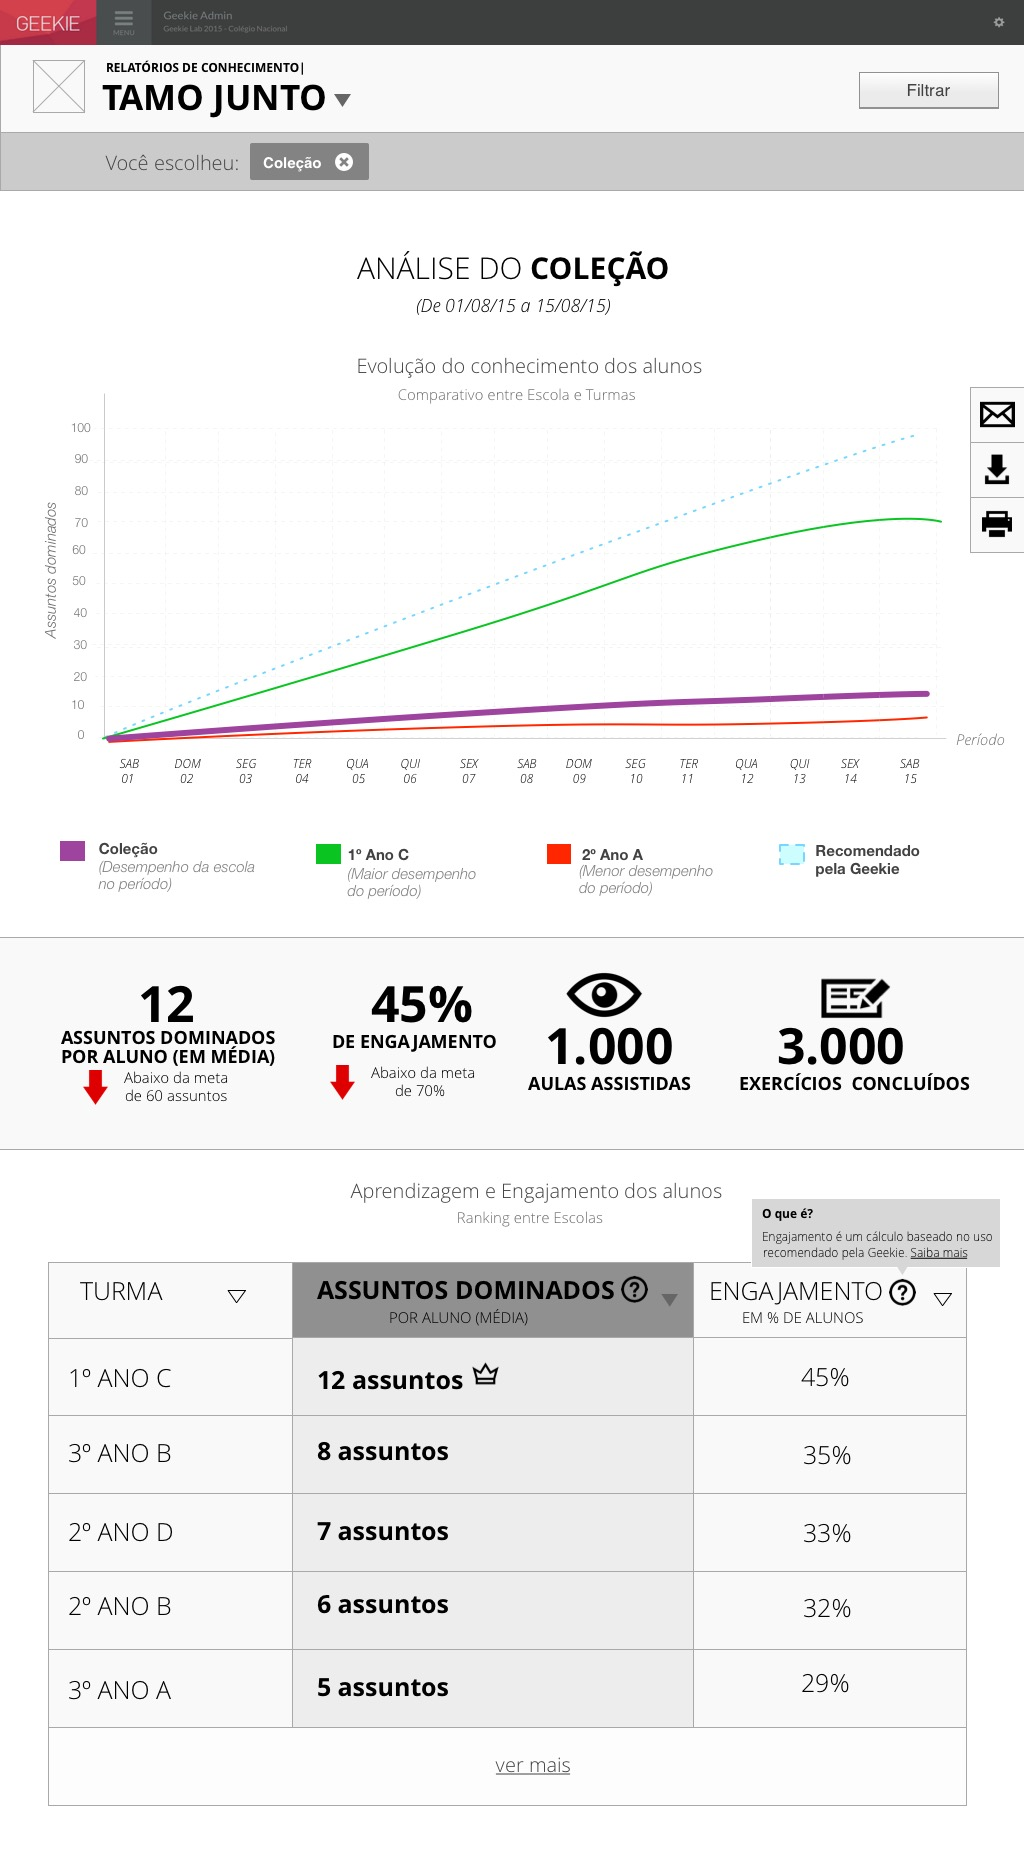
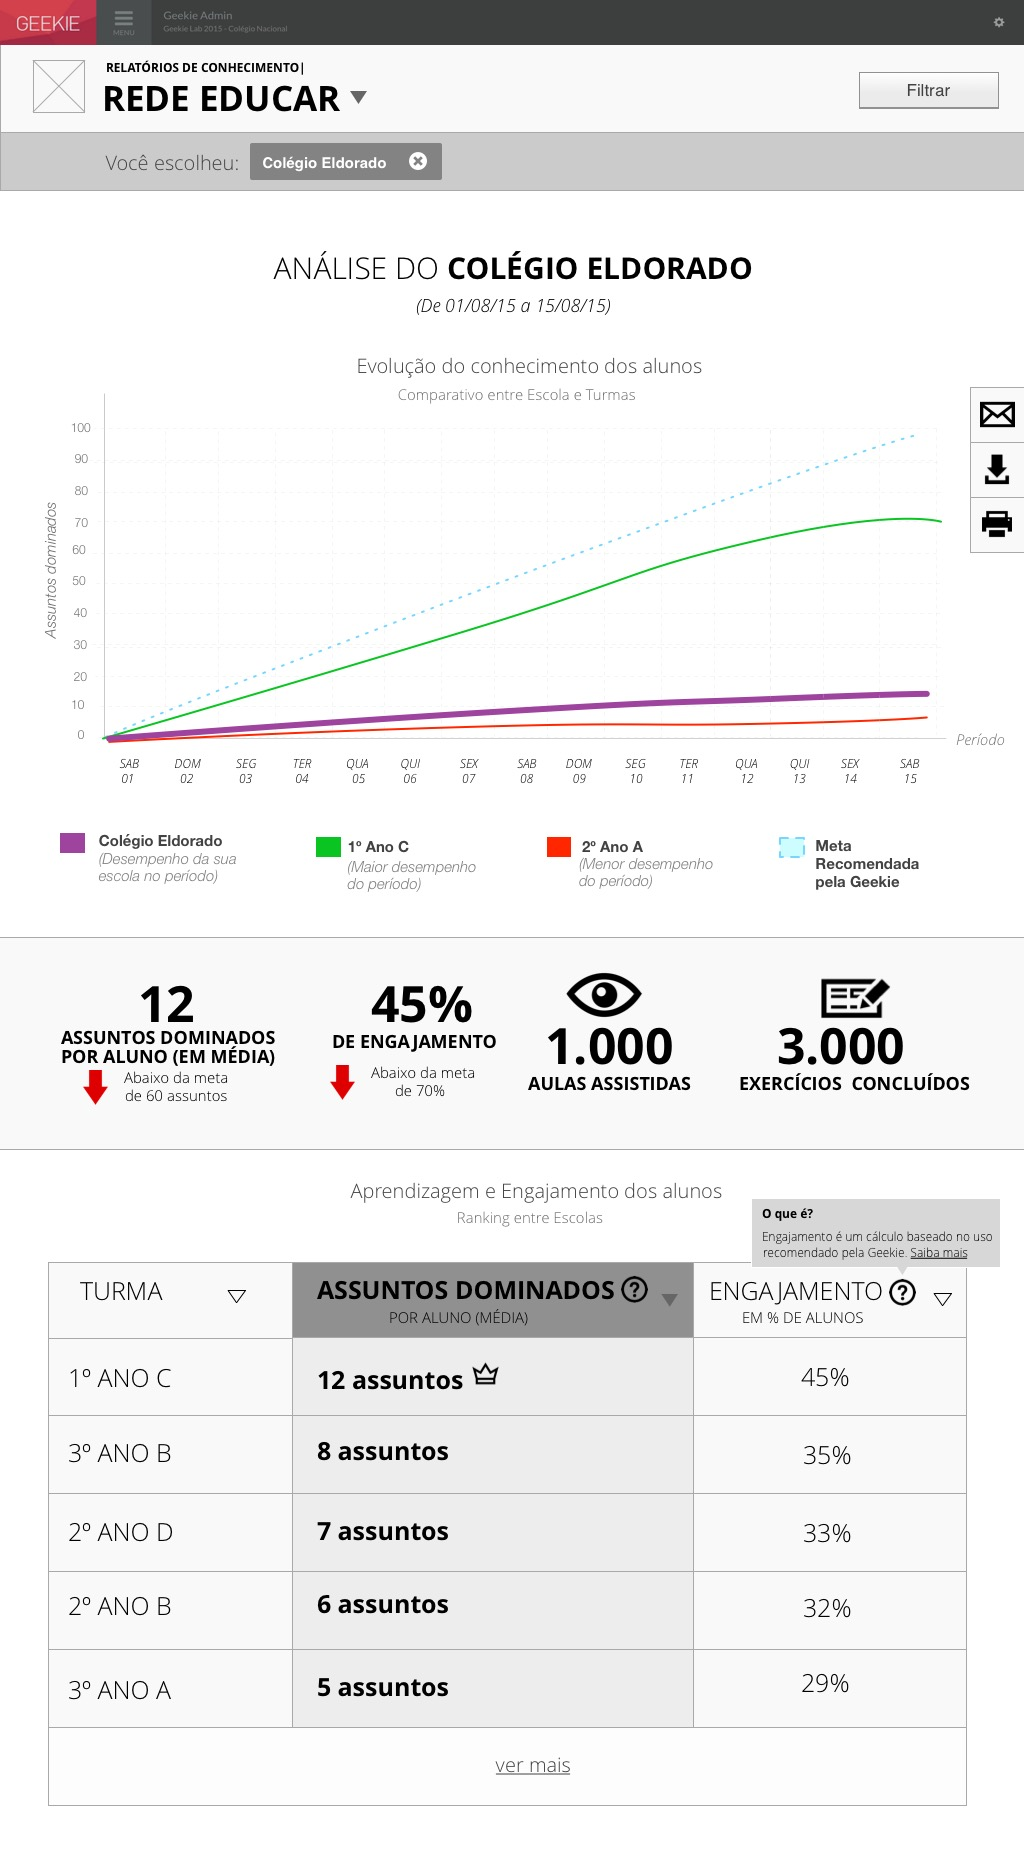
ajustes apos conversa com Valeria

diff --git a/rede/arquivos/Dashboard Rede.html b/rede/arquivos/Dashboard Rede.html
@@ -1,11 +1,13 @@
 <map name="GraffleExport">
+	<area shape=poly coords="366,91,358,104,350,91,366,91" href="Dashboard%20Rede.html">
+	<area shape=rect coords="102,73,478,122" href="Dropdown%20Rede.html">
+	<area shape=rect coords="57,1370,306,1401" href="Dashboard%20Rede%20Filtrado.html">
 	<area shape=rect coords="758,1171,974,1198" href="Dashboard%20lightbox.html">
 	<area shape=rect coords="267,1677,800,1715" href="Dashboard%20Rede%20Ver%20Mais.html">
 	<area shape=rect coords="48,1659,966,1737" href="Dashboard%20Rede%20Ver%20Mais.html">
 	<area shape=poly coords="951,1225,942,1238,934,1225,951,1225" href="Dashboard%20ordena%C3%A7%C3%A3o.html">
 	<area shape=rect coords="889,1211,916,1238" href="Dashboard%20Rede.html">
 	<area shape=rect coords="633,1194,966,1269" href="Dashboard%20ordena%C3%A7%C3%A3o.html">
-	<area shape=poly coords="350,92,342,104,334,92,350,92" href="Dropdown%20Rede.html">
 	<area shape=rect coords="0,0,1024,45" href="Dashboard%20Rede.html">
 	<area shape=rect coords="850,73,989,108" href="Dashboard%20Rede%20Filtros.html">
 </map>

diff --git a/rede/arquivos/Dashboard lightbox.html b/rede/arquivos/Dashboard lightbox.html
@@ -1,7 +1,7 @@
 <map name="GraffleExport">
 	<area shape=poly coords="924,189,949,163,975,189,949,215,924,189" href="Dashboard%20Rede.html">
-	<area shape=rect coords="0,0,1025,1800" href="Email%20Rede.html">
-	<area shape=poly coords="350,92,342,104,334,92,350,92" href="Dropdown%20Rede.html">
+	<area shape=rect coords="0,0,1025,1922" href="Email%20Rede.html">
+	<area shape=poly coords="366,91,358,104,350,91,366,91" href="Dashboard%20Rede.html">
 	<area shape=rect coords="0,0,1024,45" href="Dashboard%20Rede.html">
 </map>
 <img border=0 src="Dashboard%20lightbox.jpg" usemap="#GraffleExport">

diff --git a/rede/arquivos/Dashboard ordenação.html b/rede/arquivos/Dashboard ordenação.html
@@ -1,7 +1,7 @@
 <map name="GraffleExport">
+	<area shape=poly coords="367,92,359,105,351,92,367,92" href="Dashboard%20Rede.html">
 	<area shape=poly coords="658,1238,667,1225,675,1238,658,1238" href="Dashboard%20Rede.html">
 	<area shape=rect coords="292,1194,692,1269" href="Dashboard%20Rede.html">
-	<area shape=poly coords="350,92,342,104,334,92,350,92" href="Dropdown%20Rede.html">
 	<area shape=rect coords="0,0,1024,45" href="Dashboard%20Rede.html">
 </map>
 <img border=0 src="Dashboard%20ordena%C3%A7%C3%A3o.jpg" usemap="#GraffleExport">

diff --git a/rede/arquivos/Dropdown Rede.html b/rede/arquivos/Dropdown Rede.html
@@ -1,6 +1,7 @@
 <map name="GraffleExport">
 	<area shape=rect coords="633,1194,966,1269" href="Dashboard%20ordena%C3%A7%C3%A3o.html">
 	<area shape=rect coords="0,0,1024,45" href="Dashboard%20Rede.html">
-	<area shape=poly coords="334,108,342,95,350,108,334,108" href="Dashboard%20Rede.html">
+	<area shape=rect coords="80,198,329,252" href="Dashboard%20Rede%20Filtrado.html">
+	<area shape=poly coords="350,104,358,91,366,104,350,104" href="Dashboard%20Rede.html">
 </map>
 <img border=0 src="Dropdown%20Rede.jpg" usemap="#GraffleExport">

diff --git a/rede/arquivos/Dashboard Rede Ver Mais.html b/rede/arquivos/Dashboard Rede Ver Mais.html
@@ -1,7 +1,7 @@
 <map name="GraffleExport">
+	<area shape=poly coords="366,91,358,104,350,91,366,91" href="Dashboard%20Rede.html">
 	<area shape=rect coords="267,2065,800,2103" href="Dashboard%20Rede.html">
 	<area shape=rect coords="48,2047,966,2125" href="Dashboard%20Rede.html">
-	<area shape=poly coords="350,92,342,104,334,92,350,92" href="Dropdown%20Rede.html">
 	<area shape=rect coords="0,0,1024,45" href="Dashboard%20Rede.html">
 </map>
 <img border=0 src="Dashboard%20Rede%20Ver%20Mais.jpg" usemap="#GraffleExport">

diff --git a/rede/arquivos/Dashboard Rede Filtros Escolas.html b/rede/arquivos/Dashboard Rede Filtros Escolas.html
@@ -1,6 +1,6 @@
 <map name="GraffleExport">
 	<area shape=rect coords="614,241,708,275" href="Dashboard%20Rede%20Filtrado.html">
-	<area shape=rect coords="419,305,474,329" href="Dashboard%20Rede%20Escolas%20Selecionado.html">
+	<area shape=rect coords="419,305,522,329" href="Dashboard%20Rede%20Escolas%20Selecionado.html">
 	<area shape=rect coords="0,0,1024,45" href="Dashboard%20Rede.html">
 </map>
 <img border=0 src="Dashboard%20Rede%20Filtros%20Escolas.jpg" usemap="#GraffleExport">

diff --git a/rede/arquivos/Dashboard Rede Filtros.html b/rede/arquivos/Dashboard Rede Filtros.html
@@ -1,4 +1,5 @@
 <map name="GraffleExport">
+	<area shape=poly coords="366,91,358,104,350,91,366,91" href="Dashboard%20Rede.html">
 	<area shape=rect coords="614,241,708,275" href="Dashboard%20Rede%20Filtrado.html">
 	<area shape=poly coords="570,261,576,268,581,261,570,261" href="Dashboard%20Rede%20Filtros%20Escolas.html">
 	<area shape=rect coords="416,253,588,274" href="Dashboard%20Rede%20Filtros%20Escolas.html">

diff --git a/rede/arquivos/Dashboard Rede Filtrado.html b/rede/arquivos/Dashboard Rede Filtrado.html
@@ -1,4 +1,5 @@
 <map name="GraffleExport">
+	<area shape=poly coords="366,91,358,104,350,91,366,91" href="Dashboard%20Rede.html">
 	<area shape=rect coords="0,0,1024,45" href="Dashboard%20Rede.html">
 </map>
 <img border=0 src="Dashboard%20Rede%20Filtrado.jpg" usemap="#GraffleExport">
